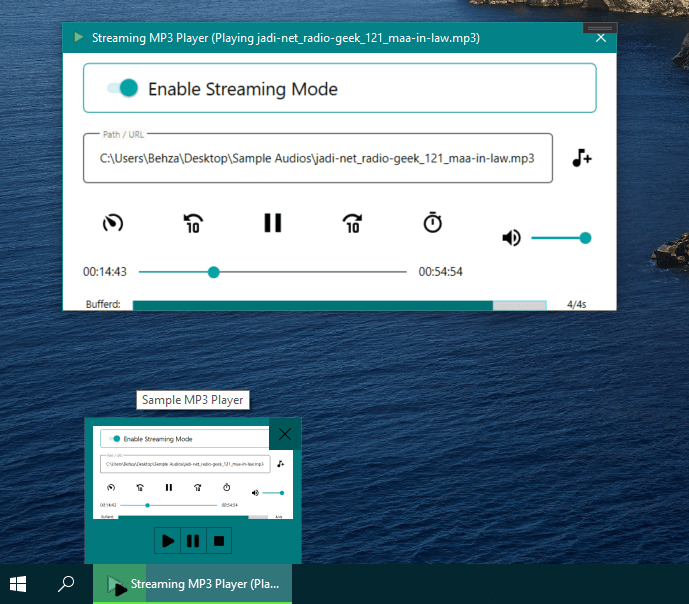
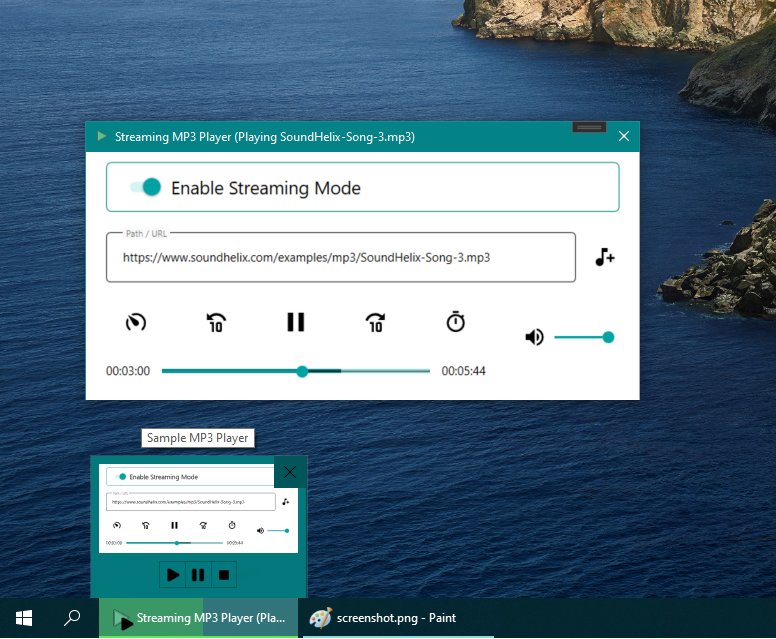
update screenshot and sample streaming mp3 file path

diff --git a/src/MP3Player.Sample/StreamingViewModel.cs b/src/MP3Player.Sample/StreamingViewModel.cs
@@ -51,7 +51,7 @@ namespace MP3Player.Sample
             SetTitle("File Not Loaded");
             SpeedCommand = new RelayCommand(OnChangedSpeed);
             IsStreaming = true;
-            InputPath = "https://file-examples-com.github.io/uploads/2017/11/file_example_MP3_5MG.mp3";
+            InputPath = "https://www.soundhelix.com/examples/mp3/SoundHelix-Song-3.mp3";
         }
 
         private void OnChangedSpeed()
